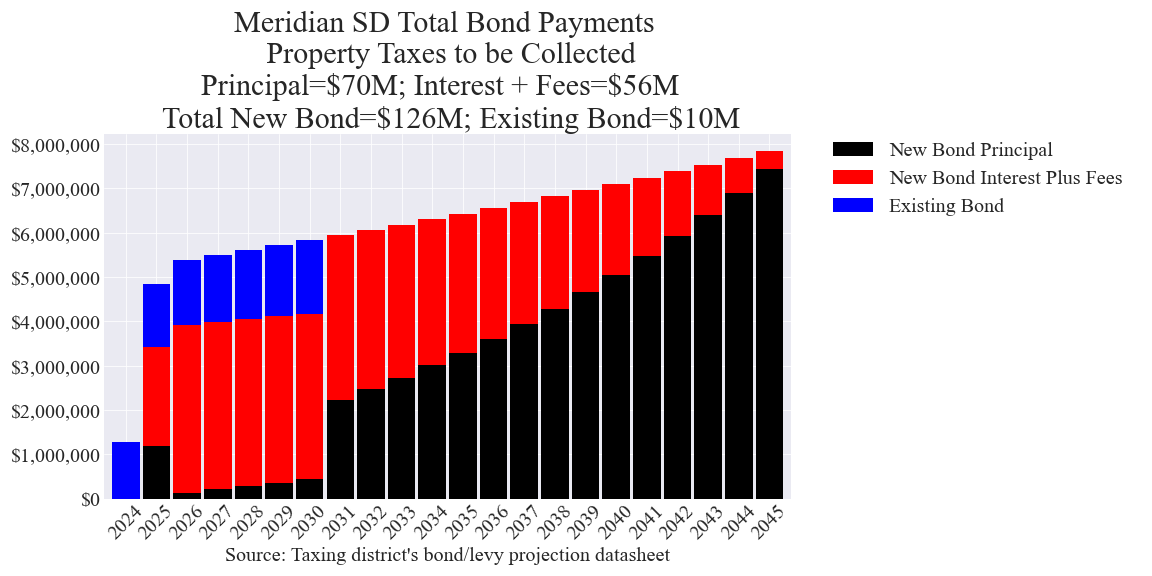
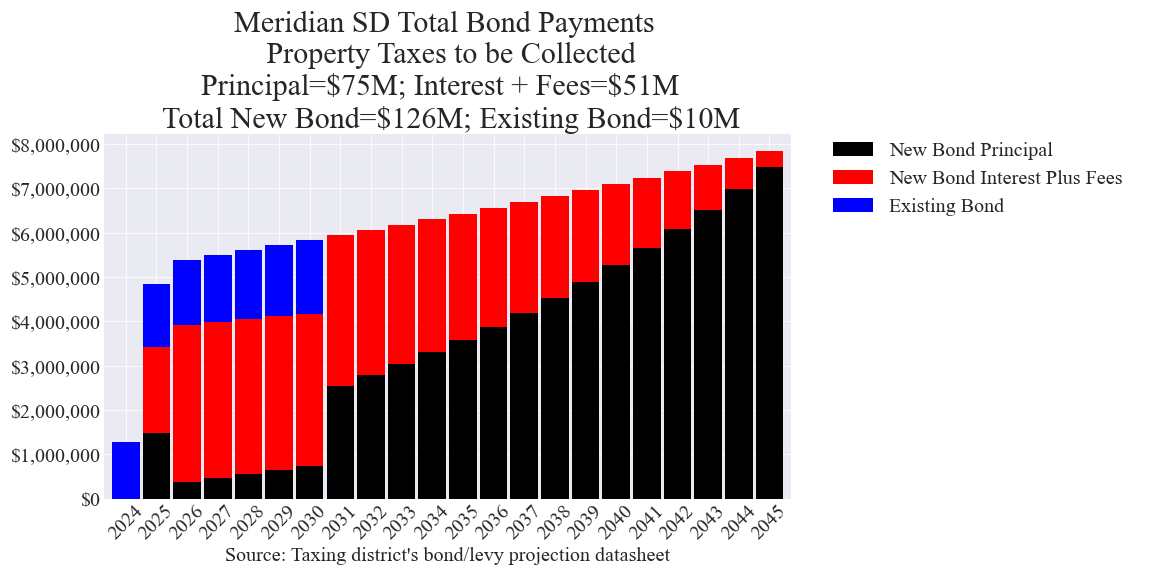
Updated elec 20241105
Mod:
Corrected Meridian

diff --git a/_includes/cost_estimates/20241105/Meridian_20241105_Enhanced.html b/_includes/cost_estimates/20241105/Meridian_20241105_Enhanced.html
@@ -15,8 +15,8 @@
 	sampleParcelAV = 550000;
 	sampleParcelAVMin = 100000;
 	sampleParcelAVMax = 2000000;
-	totalBondPrincipal = 70000000;
-	totalBondInterest = 56433000;
+	totalBondPrincipal = 75000000;
+	totalBondInterest = 51433000;
 	totalBondCost = totalBondPrincipal + totalBondInterest;
 	sampleParcelPOF = sampleParcelAV / totalBondAV;
 	totalBondCostParcel = 0;
@@ -39,27 +39,27 @@
 		data.addColumn('number', 'Interest + Fees');
 
 		data.addRows([
-			['2025', 1186500.0, 2243500.0],
-			['2026', 136190.0, 3785810.0],
-			['2027', 209647.0, 3778353.0],
-			['2028', 280151.0, 3766849.0],
-			['2029', 363527.0, 3751473.0],
-			['2030', 443479.0, 3731521.0],
-			['2031', 2232840.0, 3707160.0],
-			['2032', 2477610.0, 3584390.0],
-			['2033', 2732846.0, 3448154.0],
-			['2034', 3006116.0, 3297884.0],
-			['2035', 3296801.0, 3135199.0],
-			['2036', 3601531.0, 2956469.0],
-			['2037', 3932593.0, 2758407.0],
-			['2038', 4283860.0, 2542140.0],
-			['2039', 4658445.0, 2306555.0],
-			['2040', 5050644.0, 2050356.0],
-			['2041', 5472416.0, 1772584.0],
-			['2042', 5916390.0, 1471610.0],
-			['2043', 6389790.0, 1146210.0],
-			['2044', 6891227.0, 794773.0],
-			['2045', 7437396.0, 403604.0],
+			['2025', 1472500.0, 1957500.0],
+			['2026', 384002.0, 3537998.0],
+			['2027', 468430.0, 3519570.0],
+			['2028', 549927.0, 3497073.0],
+			['2029', 644337.0, 3470663.0],
+			['2030', 735279.0, 3439721.0],
+			['2031', 2535607.0, 3404393.0],
+			['2032', 2779525.0, 3282475.0],
+			['2033', 3032179.0, 3148821.0],
+			['2034', 3300981.0, 3003019.0],
+			['2035', 3585099.0, 2846901.0],
+			['2036', 3880957.0, 2677043.0],
+			['2037', 4200637.0, 2490363.0],
+			['2038', 4537692.0, 2288308.0],
+			['2039', 4894960.0, 2070040.0],
+			['2040', 5266425.0, 1834575.0],
+			['2041', 5663763.0, 1581237.0],
+			['2042', 6079218.0, 1308782.0],
+			['2043', 6519667.0, 1016333.0],
+			['2044', 6983303.0, 702697.0],
+			['2045', 7485515.0, 355485.0],
 
 		]);
 
